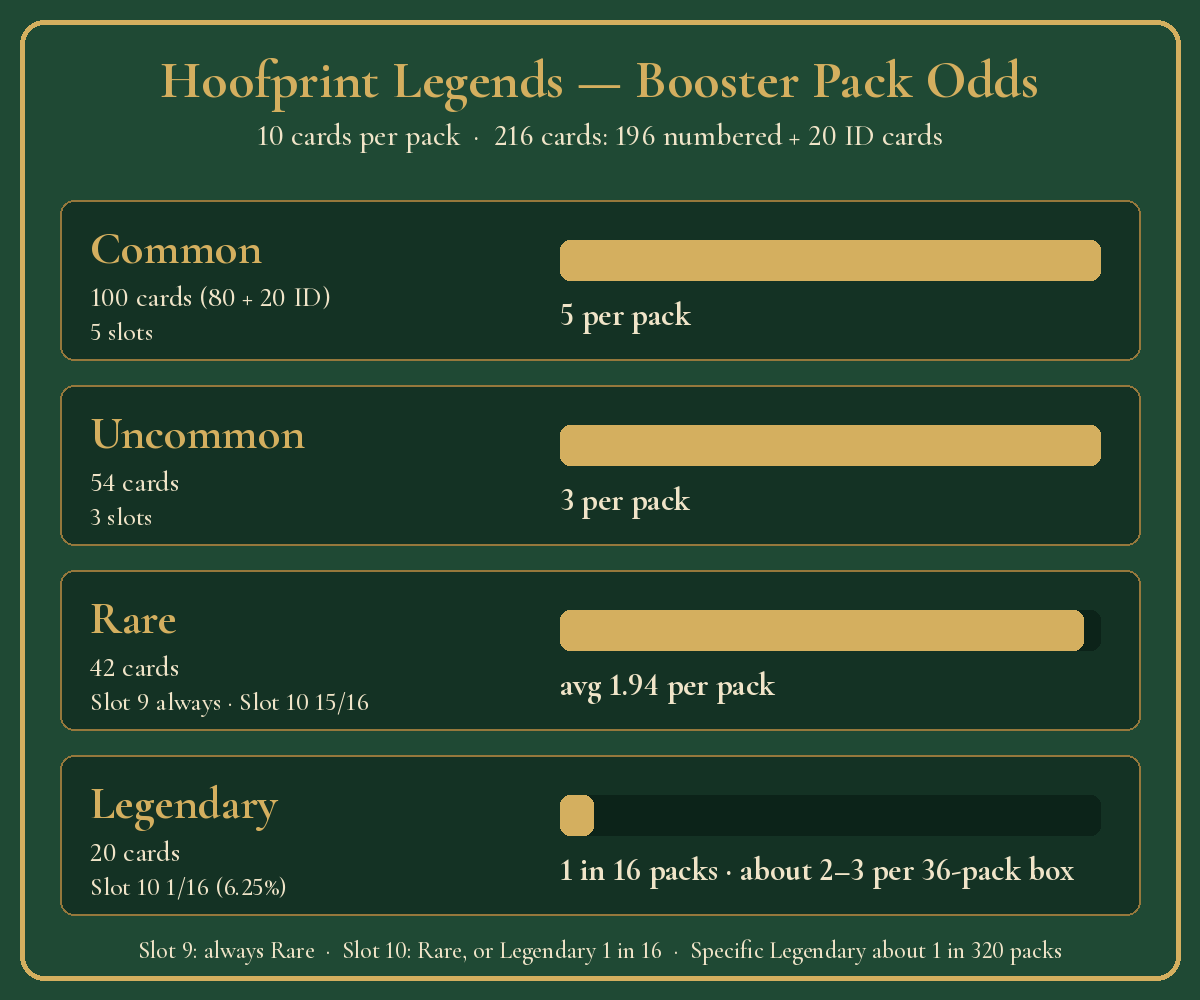
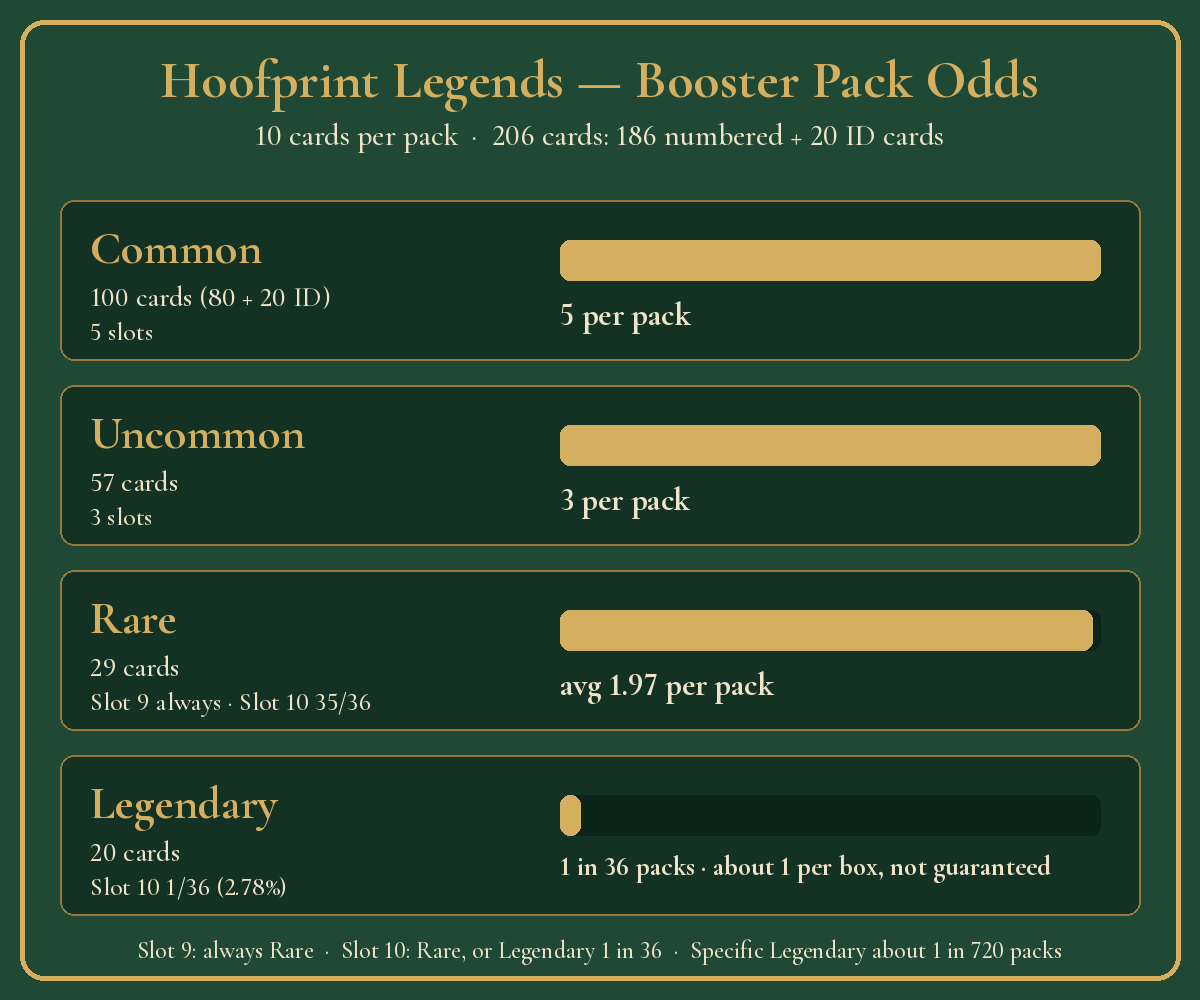
Use the updated Hoofprint pack odds chart and pack back.
Both images now show a Legendary about 1 in 36 packs.

diff --git a/horse-cards/index.html b/horse-cards/index.html
@@ -72,7 +72,7 @@
     <img src="packs/pack-black.jpg" width="750" height="1000" alt="Hoofprint Legends booster pack with a black horse">
     <img src="packs/pack-palomino.jpg" width="750" height="1000" alt="Hoofprint Legends booster pack with a palomino horse">
     <img src="packs/pack-chestnut.jpg" width="750" height="1000" alt="Hoofprint Legends booster pack with a chestnut horse">
-    <img src="packs/pack-back.jpg" width="750" height="1000" alt="Back of a Hoofprint Legends booster pack. Ten cards: 5 Common, 3 Uncommon, one guaranteed Rare, and a Legendary about 1 in 36 packs.">
+    <img src="packs/pack-back.png" width="864" height="1152" alt="Back of a Hoofprint Legends booster pack. Ten cards: 5 Common, 3 Uncommon, one guaranteed Rare, and a Legendary about 1 in 36 packs.">
   </div>
   <img class="pack-odds" src="packs/pack-odds.png" width="1200" height="1000" alt="Hoofprint Legends booster pack odds. Five Common, three Uncommon, one guaranteed Rare, and a Legendary in 1 of 36 packs. A 36-pack box averages about 1 Legendary. A specific Legendary is about 1 in 720 packs. Set: 100 Common, 57 Uncommon, 29 Rare, 20 Legendary.">
   <p class="pack-note">Hoofprint Legends booster packs contain 10 cards: 5 Common (ID cards included), 3 Uncommon, 1 guaranteed Rare, and 1 Rare-or-Legendary slot (Legendary 1 in 36, Rare otherwise). A 36-pack box averages about 1 Legendary (about 64% of boxes have at least one; not guaranteed). Any specific Legendary is about 1 in 720 packs. Set: 100 Common, 57 Uncommon, 29 Rare, 20 Legendary (206 cards).</p>
